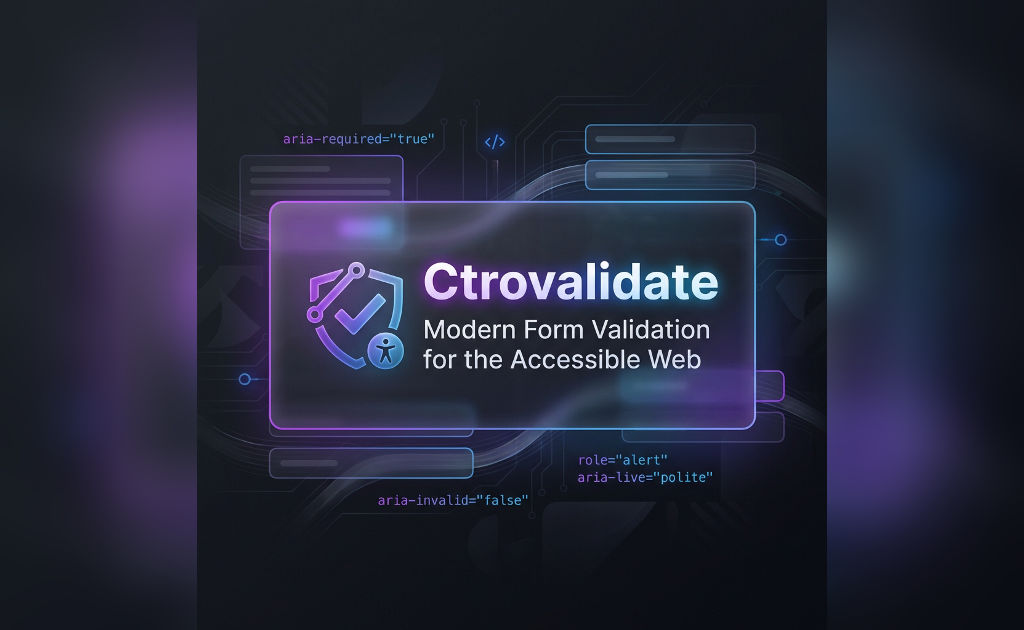
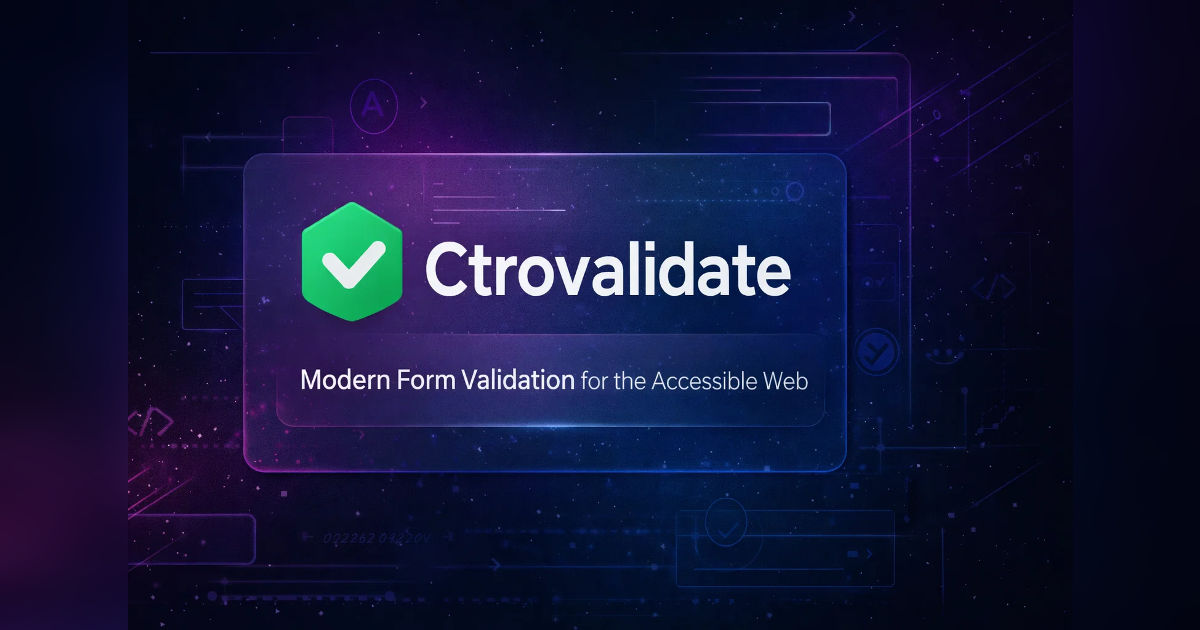
docs: use final 1200x630 industrial-standard OG image

diff --git a/docs/.vitepress/dist/404.html b/docs/.vitepress/dist/404.html
@@ -16,9 +16,9 @@
     <meta property="og:type" content="website">
     <meta property="og:locale" content="en">
     <meta property="og:site_name" content="Ctrovalidate">
-    <meta property="og:image" content="https://ctrotech-tutor.github.io/ctrovalidate/og-image.png">
+    <meta property="og:image" content="https://ctrotech-tutor.github.io/ctrovalidate/og-image.jpg">
     <meta name="twitter:card" content="summary_large_image">
-    <meta name="twitter:image" content="https://ctrotech-tutor.github.io/ctrovalidate/og-image.png">
+    <meta name="twitter:image" content="https://ctrotech-tutor.github.io/ctrovalidate/og-image.jpg">
     <meta name="twitter:site" content="@ctrotech">
     <meta name="viewport" content="width=device-width, initial-scale=1.0, maximum-scale=5.0">
     <meta name="robots" content="index, follow">
@@ -28,7 +28,7 @@
   </head>
   <body>
     <div id="app"></div>
-    <script>window.__VP_HASH_MAP__=JSON.parse("{\"api_methods.md\":\"DIMwTiRm\",\"api_static-methods.md\":\"AsTNadv-\",\"api_types.md\":\"KZAT409_\",\"community_donate.md\":\"sXOF60r_\",\"community_thanks.md\":\"DLLPT82I\",\"guide_conditional-validation.md\":\"0jz-HY9a\",\"guide_configuration.md\":\"-KNHTqHP\",\"guide_custom-rules.md\":\"DUJB3nO8\",\"guide_examples.md\":\"DrbouK_c\",\"guide_getting-started.md\":\"CZlPupsB\",\"guide_introduction.md\":\"Dm0w4Z-O\",\"guide_rules.md\":\"DLBNVER5\",\"guide_spa-dynamic-fields.md\":\"Bze0OUAo\",\"index.md\":\"CVsi0OEl\",\"integrations_alpinejs.md\":\"CS54cDzE\",\"integrations_htmx.md\":\"B7uOE_Sm\",\"integrations_nextjs.md\":\"CT3v8BZo\",\"integrations_react.md\":\"BAOJPdkM\",\"integrations_svelte.md\":\"Div5YeL-\",\"integrations_tailwindcss.md\":\"CPtUxkjj\",\"integrations_vue.md\":\"LOYOop8y\",\"project_releases.md\":\"C6COfffD\"}");window.__VP_SITE_DATA__=JSON.parse("{\"lang\":\"en-US\",\"dir\":\"ltr\",\"title\":\"Ctrovalidate\",\"description\":\"A lightweight, powerful, and zero-dependency JavaScript library for client-side form validation.\",\"base\":\"/ctrovalidate/\",\"head\":[],\"router\":{\"prefetchLinks\":true},\"appearance\":true,\"themeConfig\":{\"logo\":\"/logo.svg\",\"search\":{\"provider\":\"local\"},\"nav\":[{\"text\":\"Guide\",\"link\":\"/guide/getting-started\"},{\"text\":\"Integrations\",\"link\":\"/integrations/tailwindcss\"},{\"text\":\"API\",\"link\":\"/api/methods\"},{\"text\":\"Sponsor\",\"link\":\"/community/donate\"},{\"text\":\"v2.0.0 (Latest)\",\"items\":[{\"text\":\"Changelog\",\"link\":\"https://github.com/ctrotech-tutor/ctrovalidate/blob/main/CHANGELOG.md\"},{\"text\":\"Releases\",\"link\":\"https://github.com/ctrotech-tutor/ctrovalidate/releases\"}]}],\"sidebar\":{\"/guide/\":[{\"text\":\"Introduction\",\"items\":[{\"text\":\"What is Ctrovalidate?\",\"link\":\"/guide/introduction\"},{\"text\":\"Getting Started\",\"link\":\"/guide/getting-started\"}]},{\"text\":\"Core Concepts\",\"items\":[{\"text\":\"Configuration Options\",\"link\":\"/guide/configuration\"},{\"text\":\"Built-in Rules\",\"link\":\"/guide/rules\"},{\"text\":\"Conditional Validation\",\"link\":\"/guide/conditional-validation\"},{\"text\":\"Working with SPAs\",\"link\":\"/guide/spa-dynamic-fields\"},{\"text\":\"Real-world Examples\",\"link\":\"/guide/examples\"}]},{\"text\":\"Advanced\",\"items\":[{\"text\":\"Creating Custom Rules\",\"link\":\"/guide/custom-rules\"}]}],\"/integrations/\":[{\"text\":\"Framework Integrations\",\"items\":[{\"text\":\"Tailwind CSS\",\"link\":\"/integrations/tailwindcss\"},{\"text\":\"Alpine.js\",\"link\":\"/integrations/alpinejs\"},{\"text\":\"htmx\",\"link\":\"/integrations/htmx\"},{\"text\":\"Vue.js\",\"link\":\"/integrations/vue\"},{\"text\":\"React\",\"link\":\"/integrations/react\"},{\"text\":\"Svelte\",\"link\":\"/integrations/svelte\"},{\"text\":\"Next.js\",\"link\":\"/integrations/nextjs\"}]}],\"/api/\":[{\"text\":\"API Reference\",\"items\":[{\"text\":\"Public Methods\",\"link\":\"/api/methods\"},{\"text\":\"Static Methods\",\"link\":\"/api/static-methods\"},{\"text\":\"TypeScript Types\",\"link\":\"/api/types\"}]}],\"/project/\":[{\"text\":\"Project Info\",\"items\":[{\"text\":\"Release Policy\",\"link\":\"/project/releases\"}]}],\"/community/\":[{\"text\":\"Community\",\"items\":[{\"text\":\"Donate\",\"link\":\"/community/donate\"}]}]},\"socialLinks\":[{\"icon\":\"github\",\"link\":\"https://github.com/ctrotech-tutor\"},{\"icon\":\"twitter\",\"link\":\"https://twitter.com/ctrotech\"},{\"icon\":\"youtube\",\"link\":\"https://youtube.com/@ctrotech\"},{\"icon\":{\"svg\":\"<svg xmlns=\\\"http://www.w3.org/2000/svg\\\" width=\\\"24\\\" height=\\\"24\\\" viewBox=\\\"0 0 24 24\\\"><path fill=\\\"currentColor\\\" d=\\\"M22 6c0-1.1-.9-2-2-2H4c-1.1 0-2 .9-2 2v12c0 1.1.9 2 2 2h16c1.1 0 2-.9 2-2V6zm-2 0l-8 5l-8-5h16zm0 12H4V8l8 5l8-5v10z\\\"/></svg>\"},\"link\":\"mailto:ctrotech.devs@gmail.com\",\"ariaLabel\":\"Email us\"}],\"footer\":{\"message\":\"Released under the MIT License.\",\"copyright\":\"Copyright © 2025-present Ctrotech\"}},\"locales\":{},\"scrollOffset\":134,\"cleanUrls\":true}");</script>
+    <script>window.__VP_HASH_MAP__=JSON.parse("{\"api_methods.md\":\"DIMwTiRm\",\"api_static-methods.md\":\"AsTNadv-\",\"api_types.md\":\"KZAT409_\",\"community_donate.md\":\"sXOF60r_\",\"community_thanks.md\":\"DLLPT82I\",\"guide_conditional-validation.md\":\"0jz-HY9a\",\"guide_configuration.md\":\"-KNHTqHP\",\"guide_custom-rules.md\":\"DUJB3nO8\",\"guide_examples.md\":\"DrbouK_c\",\"guide_getting-started.md\":\"DiL47jt0\",\"guide_introduction.md\":\"Dm0w4Z-O\",\"guide_rules.md\":\"DLBNVER5\",\"guide_spa-dynamic-fields.md\":\"Bze0OUAo\",\"index.md\":\"CVsi0OEl\",\"integrations_alpinejs.md\":\"CS54cDzE\",\"integrations_htmx.md\":\"B7uOE_Sm\",\"integrations_nextjs.md\":\"CT3v8BZo\",\"integrations_react.md\":\"BAOJPdkM\",\"integrations_svelte.md\":\"Div5YeL-\",\"integrations_tailwindcss.md\":\"CPtUxkjj\",\"integrations_vue.md\":\"LOYOop8y\",\"project_releases.md\":\"C6COfffD\"}");window.__VP_SITE_DATA__=JSON.parse("{\"lang\":\"en-US\",\"dir\":\"ltr\",\"title\":\"Ctrovalidate\",\"description\":\"A lightweight, powerful, and zero-dependency JavaScript library for client-side form validation.\",\"base\":\"/ctrovalidate/\",\"head\":[],\"router\":{\"prefetchLinks\":true},\"appearance\":true,\"themeConfig\":{\"logo\":\"/logo.svg\",\"search\":{\"provider\":\"local\"},\"nav\":[{\"text\":\"Guide\",\"link\":\"/guide/getting-started\"},{\"text\":\"Integrations\",\"link\":\"/integrations/tailwindcss\"},{\"text\":\"API\",\"link\":\"/api/methods\"},{\"text\":\"Sponsor\",\"link\":\"/community/donate\"},{\"text\":\"v2.0.0 (Latest)\",\"items\":[{\"text\":\"Changelog\",\"link\":\"https://github.com/ctrotech-tutor/ctrovalidate/blob/main/CHANGELOG.md\"},{\"text\":\"Releases\",\"link\":\"https://github.com/ctrotech-tutor/ctrovalidate/releases\"}]}],\"sidebar\":{\"/guide/\":[{\"text\":\"Introduction\",\"items\":[{\"text\":\"What is Ctrovalidate?\",\"link\":\"/guide/introduction\"},{\"text\":\"Getting Started\",\"link\":\"/guide/getting-started\"}]},{\"text\":\"Core Concepts\",\"items\":[{\"text\":\"Configuration Options\",\"link\":\"/guide/configuration\"},{\"text\":\"Built-in Rules\",\"link\":\"/guide/rules\"},{\"text\":\"Conditional Validation\",\"link\":\"/guide/conditional-validation\"},{\"text\":\"Working with SPAs\",\"link\":\"/guide/spa-dynamic-fields\"},{\"text\":\"Real-world Examples\",\"link\":\"/guide/examples\"}]},{\"text\":\"Advanced\",\"items\":[{\"text\":\"Creating Custom Rules\",\"link\":\"/guide/custom-rules\"}]}],\"/integrations/\":[{\"text\":\"Framework Integrations\",\"items\":[{\"text\":\"Tailwind CSS\",\"link\":\"/integrations/tailwindcss\"},{\"text\":\"Alpine.js\",\"link\":\"/integrations/alpinejs\"},{\"text\":\"htmx\",\"link\":\"/integrations/htmx\"},{\"text\":\"Vue.js\",\"link\":\"/integrations/vue\"},{\"text\":\"React\",\"link\":\"/integrations/react\"},{\"text\":\"Svelte\",\"link\":\"/integrations/svelte\"},{\"text\":\"Next.js\",\"link\":\"/integrations/nextjs\"}]}],\"/api/\":[{\"text\":\"API Reference\",\"items\":[{\"text\":\"Public Methods\",\"link\":\"/api/methods\"},{\"text\":\"Static Methods\",\"link\":\"/api/static-methods\"},{\"text\":\"TypeScript Types\",\"link\":\"/api/types\"}]}],\"/project/\":[{\"text\":\"Project Info\",\"items\":[{\"text\":\"Release Policy\",\"link\":\"/project/releases\"}]}],\"/community/\":[{\"text\":\"Community\",\"items\":[{\"text\":\"Donate\",\"link\":\"/community/donate\"}]}]},\"socialLinks\":[{\"icon\":\"github\",\"link\":\"https://github.com/ctrotech-tutor\"},{\"icon\":\"twitter\",\"link\":\"https://twitter.com/ctrotech\"},{\"icon\":\"youtube\",\"link\":\"https://youtube.com/@ctrotech\"},{\"icon\":{\"svg\":\"<svg xmlns=\\\"http://www.w3.org/2000/svg\\\" width=\\\"24\\\" height=\\\"24\\\" viewBox=\\\"0 0 24 24\\\"><path fill=\\\"currentColor\\\" d=\\\"M22 6c0-1.1-.9-2-2-2H4c-1.1 0-2 .9-2 2v12c0 1.1.9 2 2 2h16c1.1 0 2-.9 2-2V6zm-2 0l-8 5l-8-5h16zm0 12H4V8l8 5l8-5v10z\\\"/></svg>\"},\"link\":\"mailto:ctrotech.devs@gmail.com\",\"ariaLabel\":\"Email us\"}],\"footer\":{\"message\":\"Released under the MIT License.\",\"copyright\":\"Copyright © 2025-present Ctrotech\"}},\"locales\":{},\"scrollOffset\":134,\"cleanUrls\":true}");</script>
     
   </body>
 </html>
